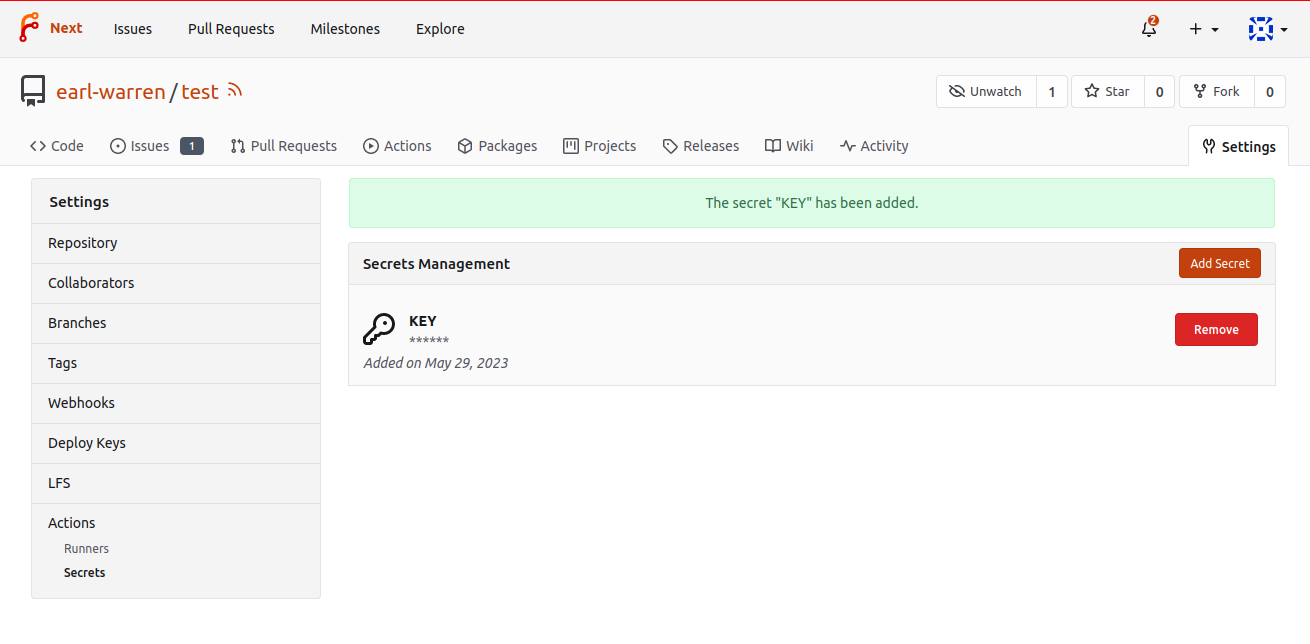
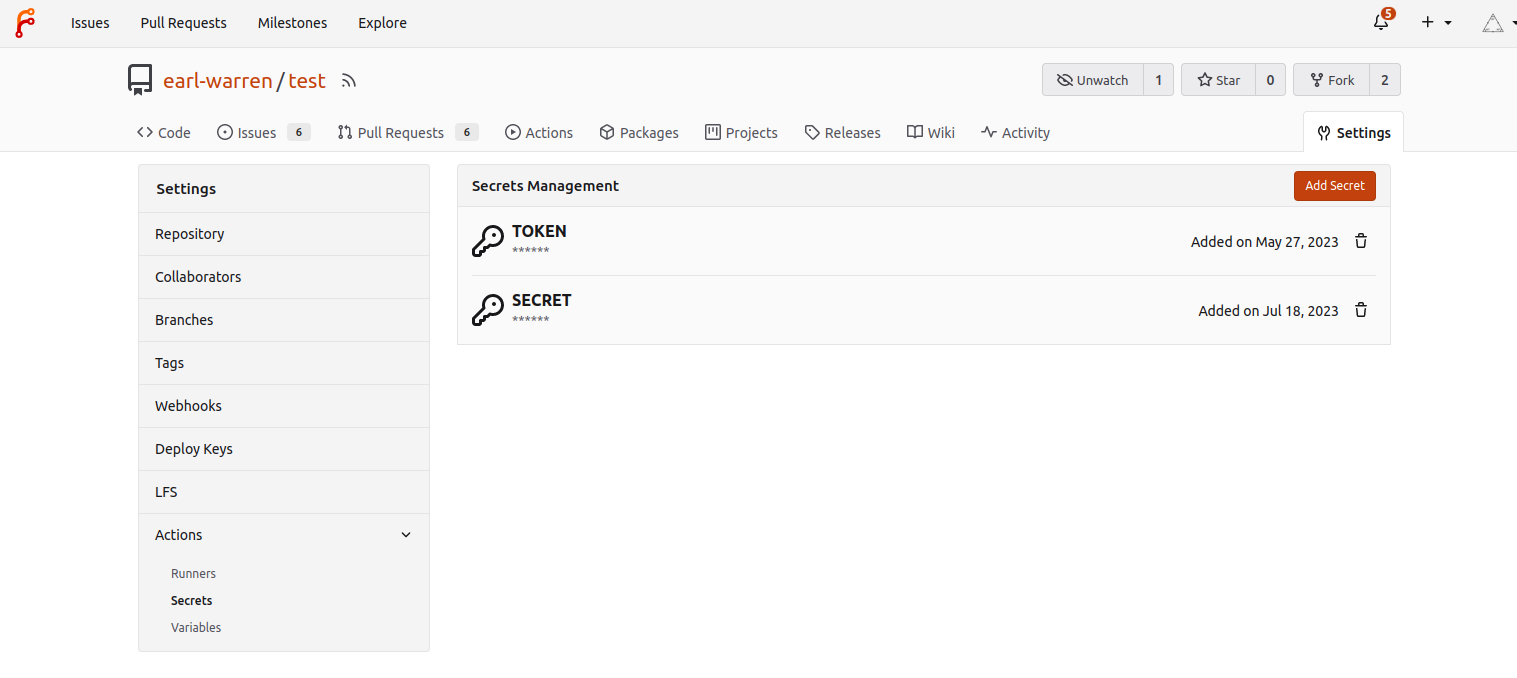
user: actions: variables
and also update the secrets list & addition screenshots as the layout
has changed

(cherry picked from commit df703accac74cedfdcadd4beea68886f571a5ea5)

diff --git a/docs/user/actions.md b/docs/user/actions.md
@@ -184,6 +184,20 @@ Once the secret is added, its value cannot be changed or displayed.
 
 ![secrets list](../_images/user/actions/secret-list.png)
 
+## Variables
+
+A repository, a user or an organization can hold variables, a set of key/value pairs that are stored in the `Forgejo` database and available to the `workflows` as `${{ vars.KEY }}`. They can be defined from the web interface:
+
+- in `/org/{org}/settings/actions/variables` to be available in all the repositories that belong to the organization
+- in `/user/settings/actions/variables` to be available in all the repositories that belong to the logged in user
+- in `/{owner}/{repo}/settings/actions/variables` to be available to the `workflows` of a single repository
+
+![add a variable](../_images/user/actions/variable-add.png)
+
+Once the variable is added, its value cannot be changed.
+
+![variables list](../_images/user/actions/variable-list.png)
+
 ## Workflow reference guide
 
 The syntax and semantics of the YAML file describing a `workflow` are _partially_ explained here. When an entry is missing the [GitHub Actions](https://docs.github.com/en/actions) documentation may be helpful because there are similarities. But there also are significant differences that require testing.
